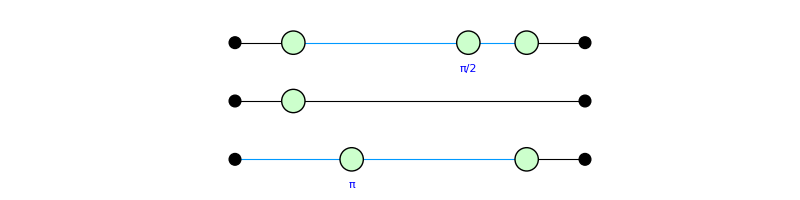
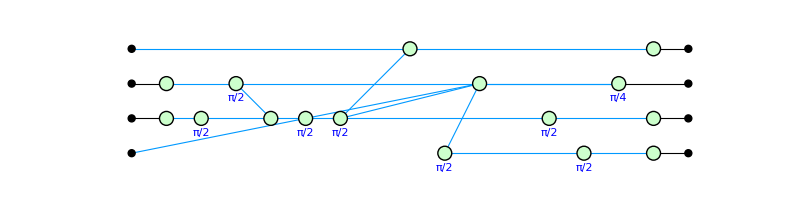
Start pivot rule implementation

diff --git a/zxdb/zxdb.py b/zxdb/zxdb.py
@@ -10,6 +10,8 @@ import numpy as np
 import pyzx as zx
 from pyzx.graph import VertexType
 
+from zxdb.pyzx_utils import pi_string_to_fraction
+
 # Configure logging
 logging.basicConfig(
     filename='app.log',            # Log file name
@@ -260,7 +262,7 @@ class ZXdb:
                             }
 
                             if "phase" in vertex:
-                                vertex_props["phase"] = float(Fraction(vertex["phase"].replace("\u03c0", "1"))) if isinstance(vertex["phase"], str) else vertex["phase"]
+                                vertex_props["phase"] = float(pi_string_to_fraction(vertex["phase"]))
                             else:
                                 if vertex.get("t") != 0:
                                     # Default to 0 if phase is not a valid number or string
@@ -496,6 +498,7 @@ class ZXdb:
                 logging.info(f"Spider fusion completed in {end_time - start_time} seconds for graph ID '{graph_id}'")
                 return total_patterns
         
+
     def pivot_rule(self, graph_id: str) -> int:
         """
         Apply the pivot rule to the graph.
@@ -510,12 +513,25 @@ class ZXdb:
         with self.driver.session() as session:
             start_time = time.time()
 
-            def apply_pivot_rule(tx):
-                pivot_query = str(self.basic_rewrite_rule_queries["Pivot rule"]["query"]["code"]["value"])
-                result = tx.run(pivot_query, graph_id=graph_id)
-                return result.single()["patterns_processed"]
+            while True:
+                processed = 0
+                
+                def apply_pivot_rule_single_interior_spider(tx):
+                    pivot_query = str(self.basic_rewrite_rule_queries["Pivot rule - single interior Pauli spider"]["query"]["code"]["value"])
+                    result = tx.run(pivot_query, graph_id=graph_id)
+                    return result.single()["interior_pauli_removed"]
 
-            processed = session.execute_write(apply_pivot_rule)
+                processed = session.execute_write(apply_pivot_rule_single_interior_spider)
+
+                def apply_pivot_rule_two_interior_spiders(tx):
+                    pivot_query = str(self.basic_rewrite_rule_queries["Pivot rule - two interior Pauli spiders"]["query"]["code"]["value"])
+                    result = tx.run(pivot_query, graph_id=graph_id)
+                    return result.single()["pivot_operations_performed"]
+                
+                processed += session.execute_write(apply_pivot_rule_two_interior_spiders)
+
+                if processed == 0:
+                    break
 
             end_time = time.time()
             logging.info(f"Pivot rule applied for graph ID '{graph_id}' with {processed} patterns processed in {end_time - start_time} seconds")

diff --git a/tests/test_pivot_rule.py b/tests/test_pivot_rule.py
@@ -22,7 +22,7 @@ class TestSpiderFusion(unittest.TestCase):
         self.zxdb = ZXdb()
         #c = cliffordT(3,10,0.1)
 
-        self.zx_graph = cliffordT(3,3,0.3)
+        self.zx_graph = cliffordT(4, 13, 0.3)
         # Prepare the ZX graph, follows the structure in PyZX
         zx.spider_simp(self.zx_graph)
         zx.to_gh(self.zx_graph)
@@ -30,7 +30,6 @@ class TestSpiderFusion(unittest.TestCase):
         fig = zx.draw_matplotlib(self.zx_graph)
         fig.savefig("example1.png")
         
-
         with open("example.json", "w") as f:
             json.dump(json.loads(self.zx_graph.to_json()), f, indent = 4)
 
@@ -42,8 +41,8 @@ class TestSpiderFusion(unittest.TestCase):
             batch_size=1000
             )
 
-    def test_spider_fusion(self):
-        #self.zxdb.pivot_rule(graph_id="example_graph")
+    def test_pivot_rule(self):
+        self.zxdb.pivot_rule(graph_id="example_graph")
 
         graph = self.zxdb.export_graphdb_to_zx_graph(
             graph_id="example_graph",
@@ -61,11 +60,11 @@ class TestSpiderFusion(unittest.TestCase):
         if  True:
             t1 = tensorfy(graph)
             t2 = tensorfy(self.zx_graph)
-            #self.assertTrue(compare_tensors(t1, t2), "Pivot rule did not reduce the number of vertices as expected.")
+            self.assertTrue(compare_tensors(t1, t2), "Pivot rule did not reduce the number of vertices as expected.")
         
         print(graph.stats())
 
-        #self.assertEqual(graph.stats(), self.zx_graph.stats(), "Pivot rule did not reduce the number of vertices as expected.")
+        self.assertEqual(graph.stats(), self.zx_graph.stats(), "Pivot rule did not reduce the number of vertices as expected.")
 
     def tearDown(self):
         self.zxdb.close()

diff --git a/zxdb/pyzx_utils.py b/zxdb/pyzx_utils.py
@@ -10,6 +10,29 @@ from pyzx import string_to_phase
 
 import networkx as nx
 
+from fractions import Fraction
+
+def pi_string_to_fraction(s: str) -> Fraction:
+    s = s.replace(" ", "")  # Remove spaces
+    if 'π' not in s:
+        return Fraction(s)  # No pi, treat as regular number
+
+    if s == 'π':
+        return Fraction(1)
+
+    if s.startswith('π/'):
+        return Fraction(1, int(s.split('/')[1]))
+
+    if s.endswith('π'):
+        return Fraction(int(s[:-1]))
+
+    if 'π/' in s:
+        num = s.split('π/')[0]
+        denom = s.split('π/')[1]
+        return Fraction(int(num), int(denom))
+
+    raise ValueError(f"Unrecognized format: {s}")
+
 
 def dict_to_graph(d, backend=None):
     """Converts a Python dict representation a graph produced by `graph_to_dict` into
